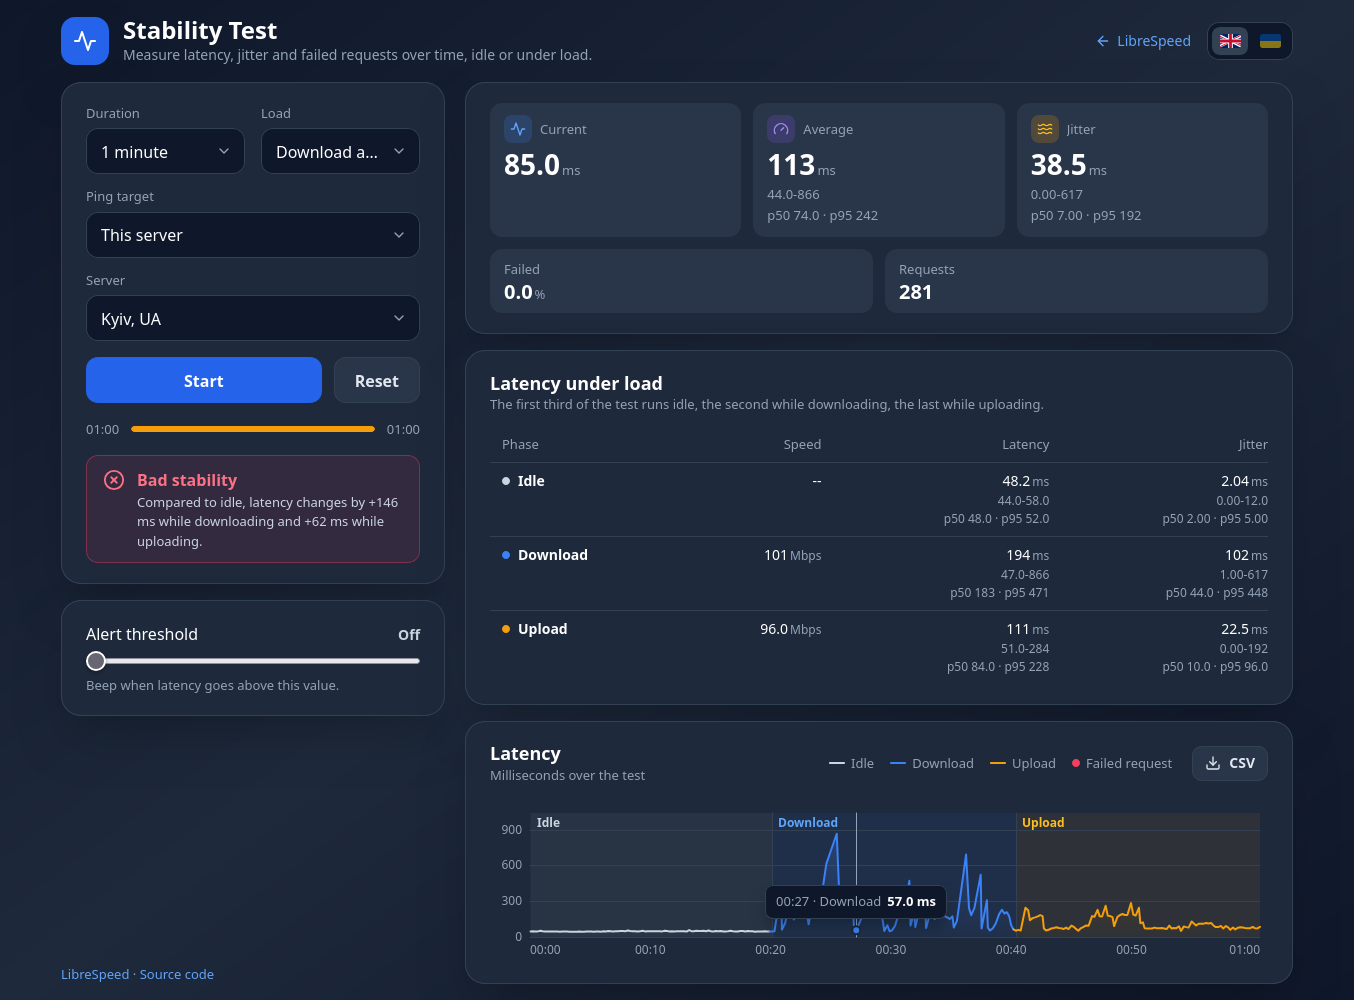
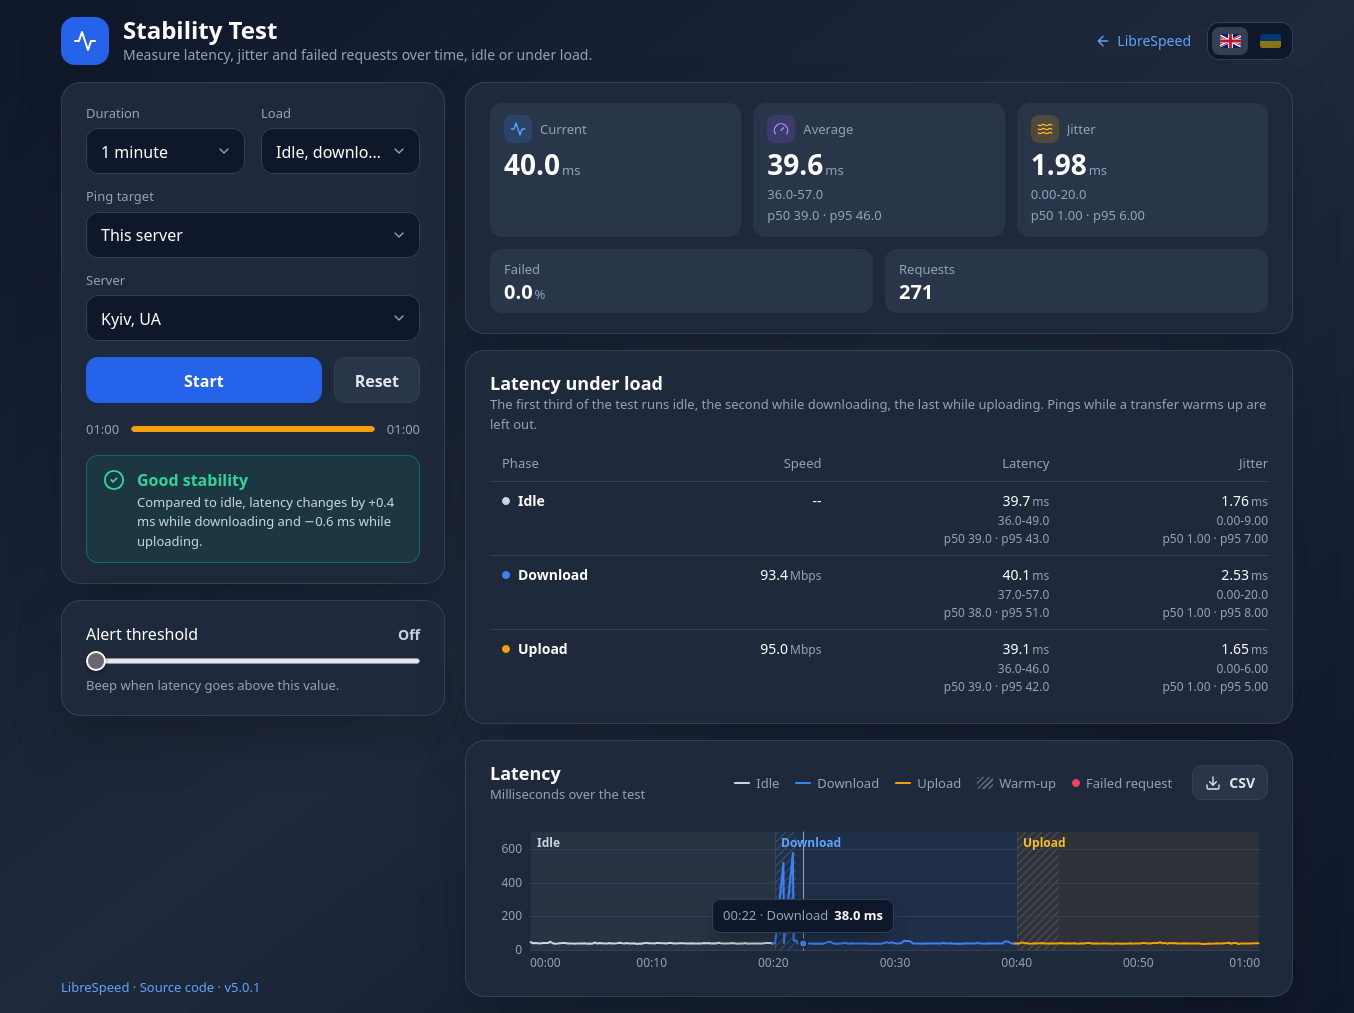
docs(readme): note the warm-up and refresh the stability screenshot

diff --git a/README.md b/README.md
@@ -28,13 +28,13 @@ This is a fork of [librespeed/speedtest-go](https://github.com/librespeed/speedt
 ## Features
 
 * Download and upload speed, ping and jitter, with a live speed chart
-* Latency and jitter while downloading and uploading
+* Latency and jitter while downloading and uploading, after each transfer's warm-up
 * Jitter as the average change between consecutive pings, shown with the smallest and largest change
 * IP address, ISP and country of the client
 * Connection stability test at `/stability/`, with latency over time, jitter, the p50 and p95 of both, failed
   requests, an alert threshold and CSV export. It runs idle, while downloading, while uploading, or all three in turn,
-  and shows the latency of each phase. Add `?load=download`, `?load=upload` or `?load=all` to the address to open it
-  with that load picked
+  and shows the latency of each phase, leaving out the pings while a transfer warms up. Add `?load=download`,
+  `?load=upload` or `?load=all` to the address to open it with that load picked
 * Optional result storage, with a shareable result image, a JSON API and a password-protected statistics page
 * Multiple test servers to choose from
 * English and Ukrainian, picked from the browser's language or a switch on every page
